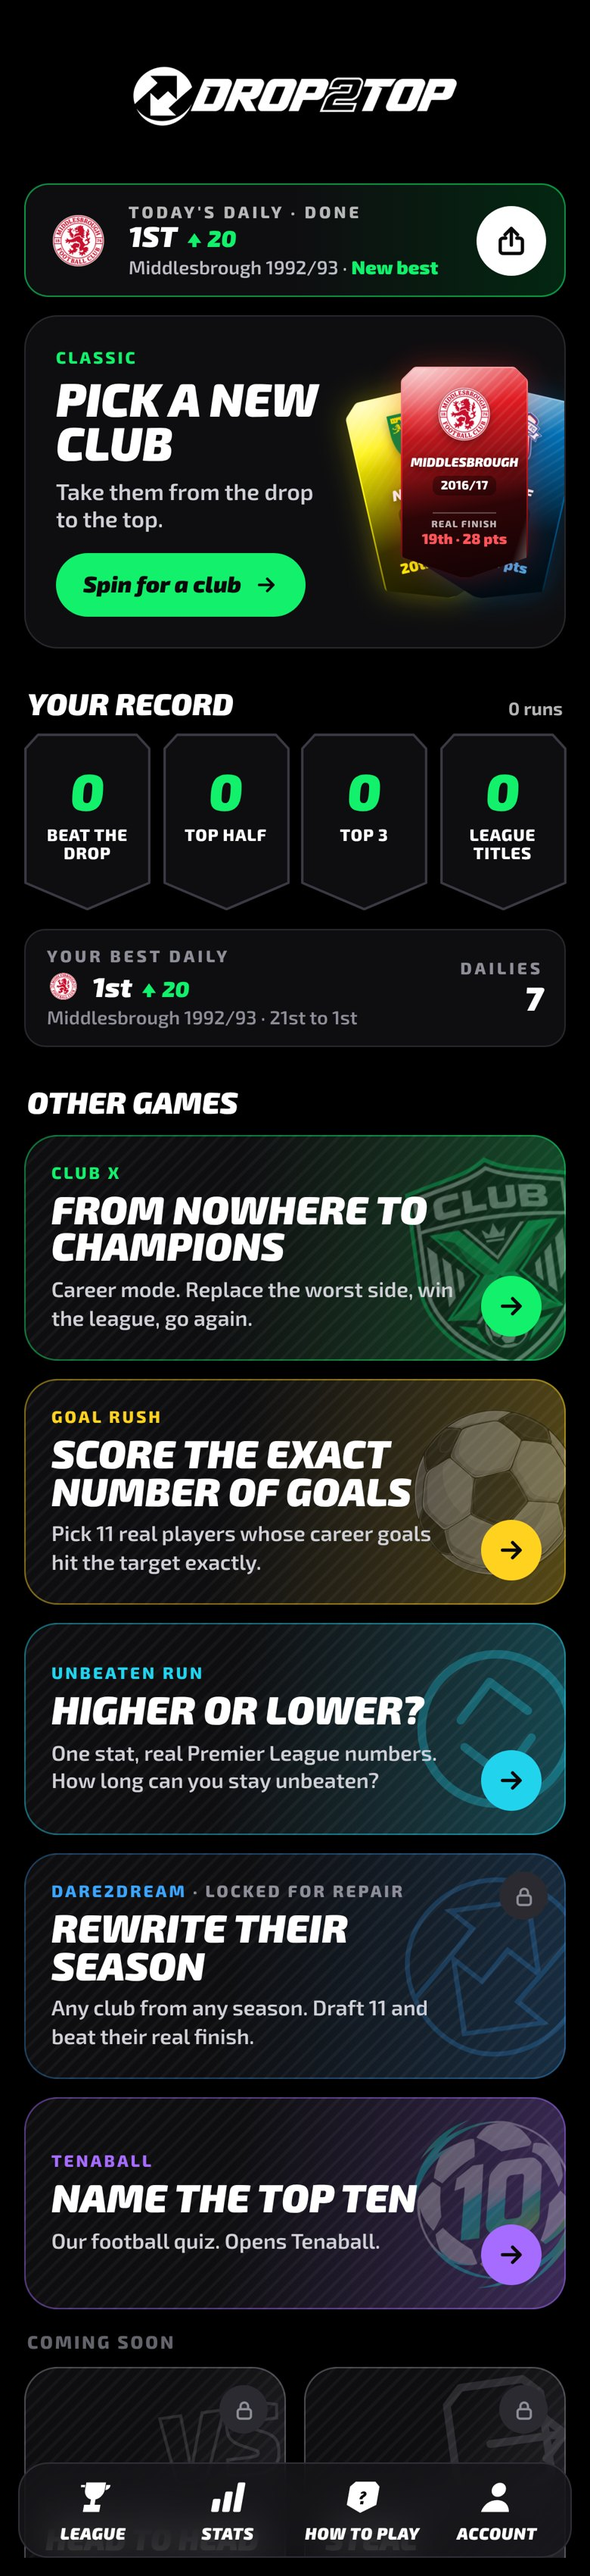
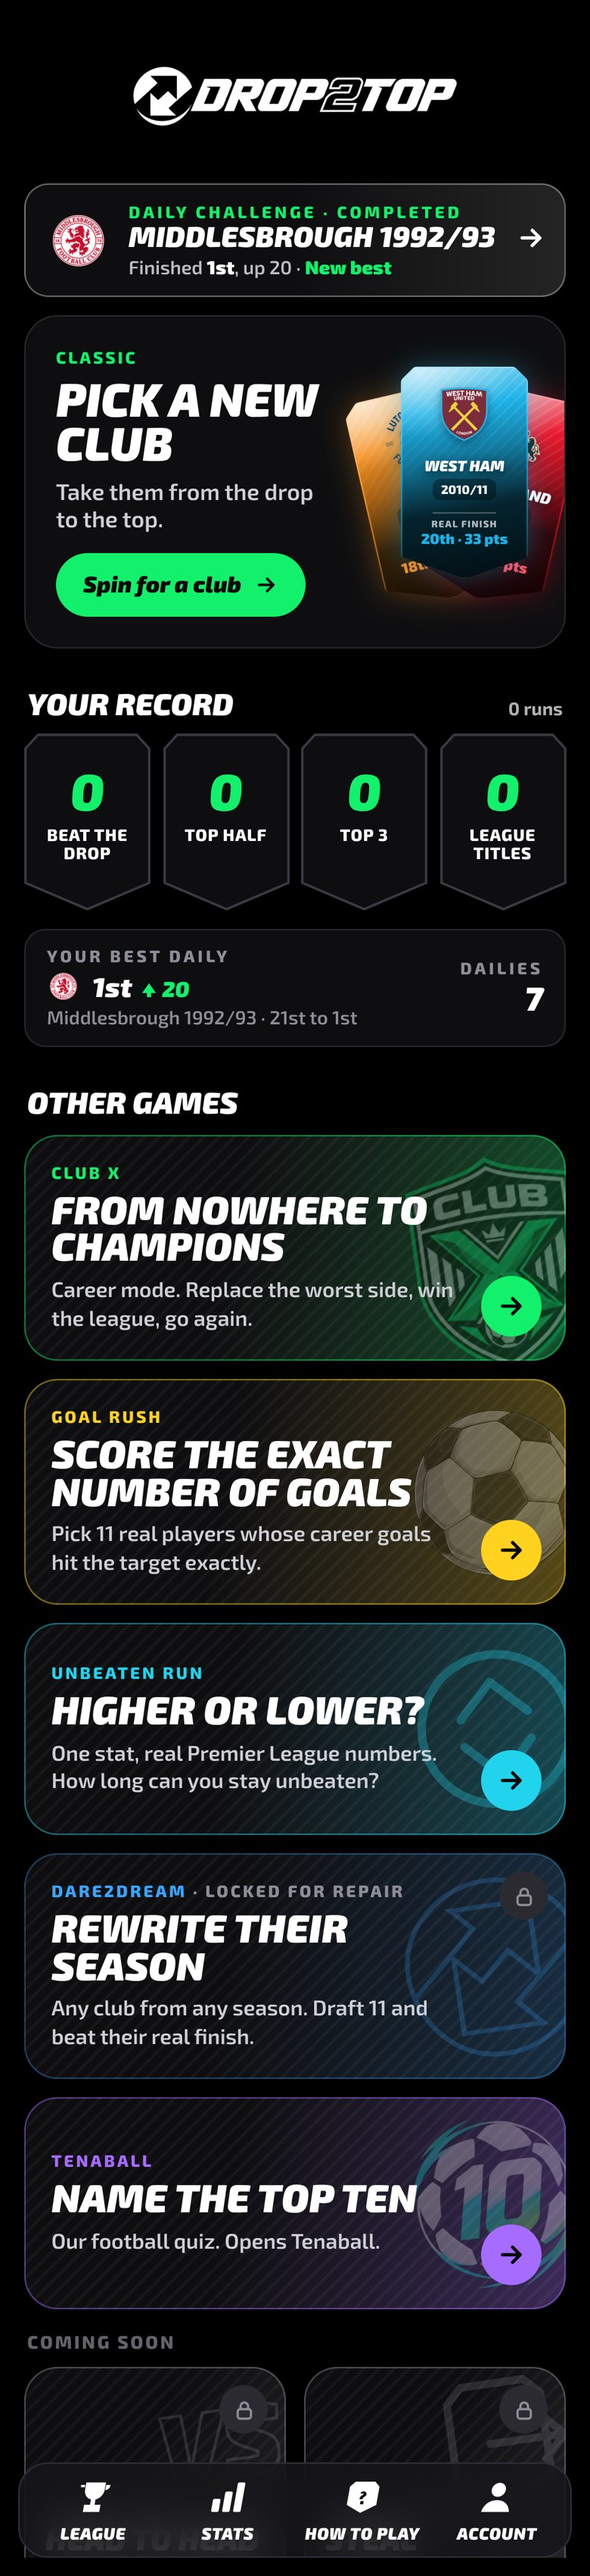
Home Daily strip: completed state matches in progress
Claude-Session: https://claude.ai/code/session_01Gb6mRMvFcPQQnwBubhEqsS

Changed region(s): [[0.2154, 0.0624, 0.9846, 0.2494]]

diff --git a/design/prototype/home-daily.html b/design/prototype/home-daily.html
@@ -43,7 +43,7 @@ const O=[['now','Now','Today\'s home: Classic first, the Daily first card under 
 const S=[['s1','1 · <span>First visit</span>','Nothing played yet: the club and season, and the question. Tap to play.'],
  ['s2','2 · <span>You have a best</span>','The strip sets today against your best: <b>"Finish 4th or higher to beat your best"</b>. Your best Daily (West Ham, 3rd, up 17) sits in Your record.'],
  ['s3','3 · <span>Mid-game</span>','A Daily in progress turns the label green: <b>"In progress"</b>, where you are, tap to carry on.'],
- ['s4','4 · <span>Played today</span>','Done: the strip shows <b>your finish and rise</b>, "New best" when it is, and a <b>Share</b> button in place of the arrow. Tap the strip to go again. Your record\'s best Daily updates.']];
+ ['s4','4 · <span>Completed</span>','The same strip as in progress: <b>"Completed"</b> in green, and the line below says how you did, <b>"Finished 1st, up 20 · New best"</b>. White edge as before. Tap to see your result, share it or go again. Your record\'s best Daily updates.']];
 const put=(host)=>([id,name,why])=>{const el=document.createElement('div');el.className='col';
  el.innerHTML=`<h2>${name}</h2><p class="why">${why}</p><div class="phone"><div class="scr"><img alt="${id} home" src="home-daily/${id}.jpg"></div></div><div class="tog"><button class="on" data-v="">First screen</button><button data-v="-full">Whole page</button></div>`;
  const img=el.querySelector('img');el.querySelectorAll('.tog button').forEach((b)=>b.onclick=()=>{el.querySelectorAll('.tog button').forEach((x)=>x.classList.toggle('on',x===b));img.src=`home-daily/${id}${b.dataset.v}.jpg`;el.querySelector('.scr').scrollTop=0;});
